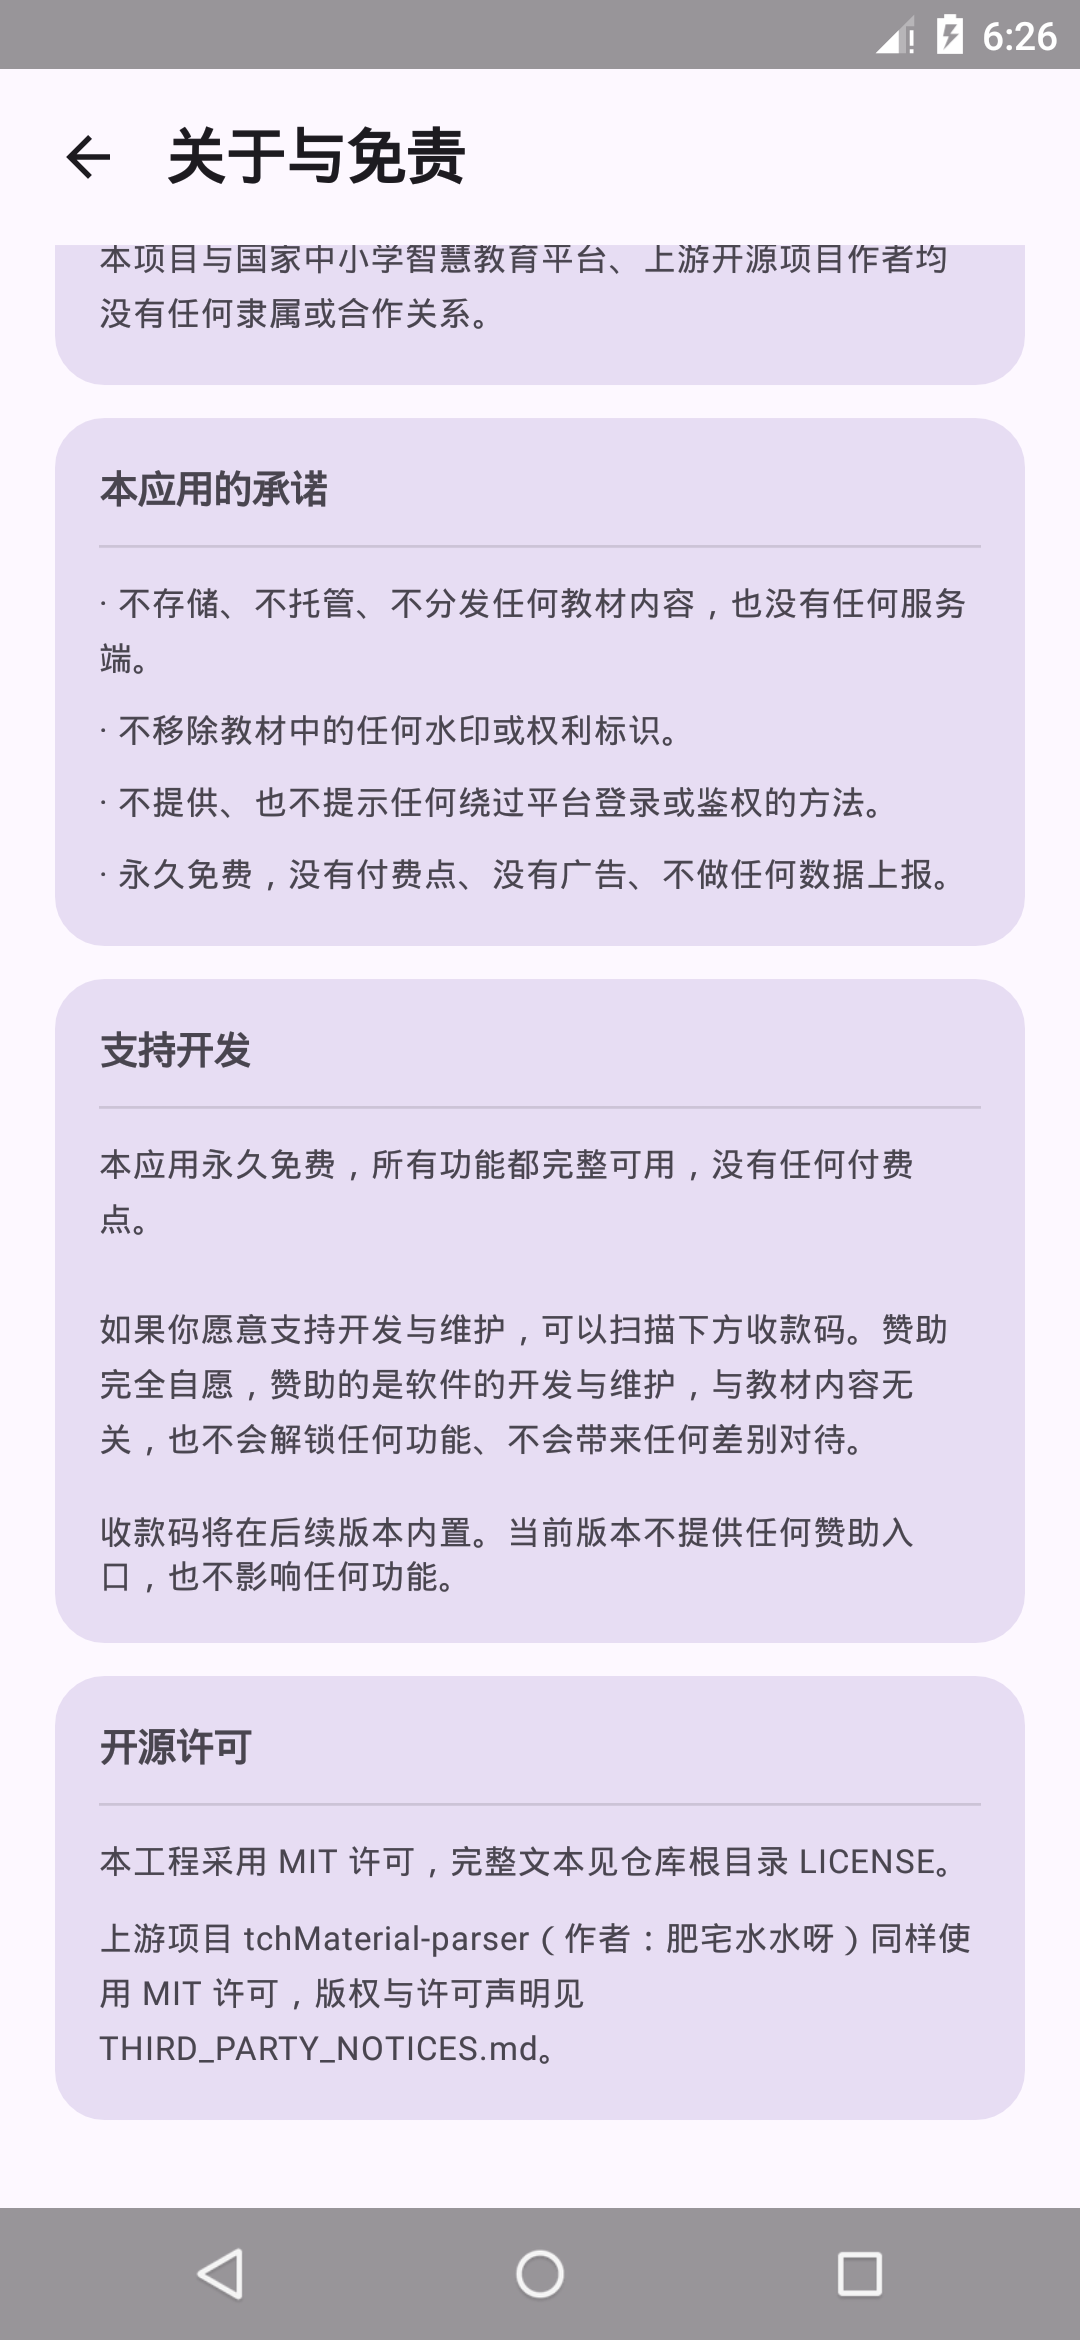
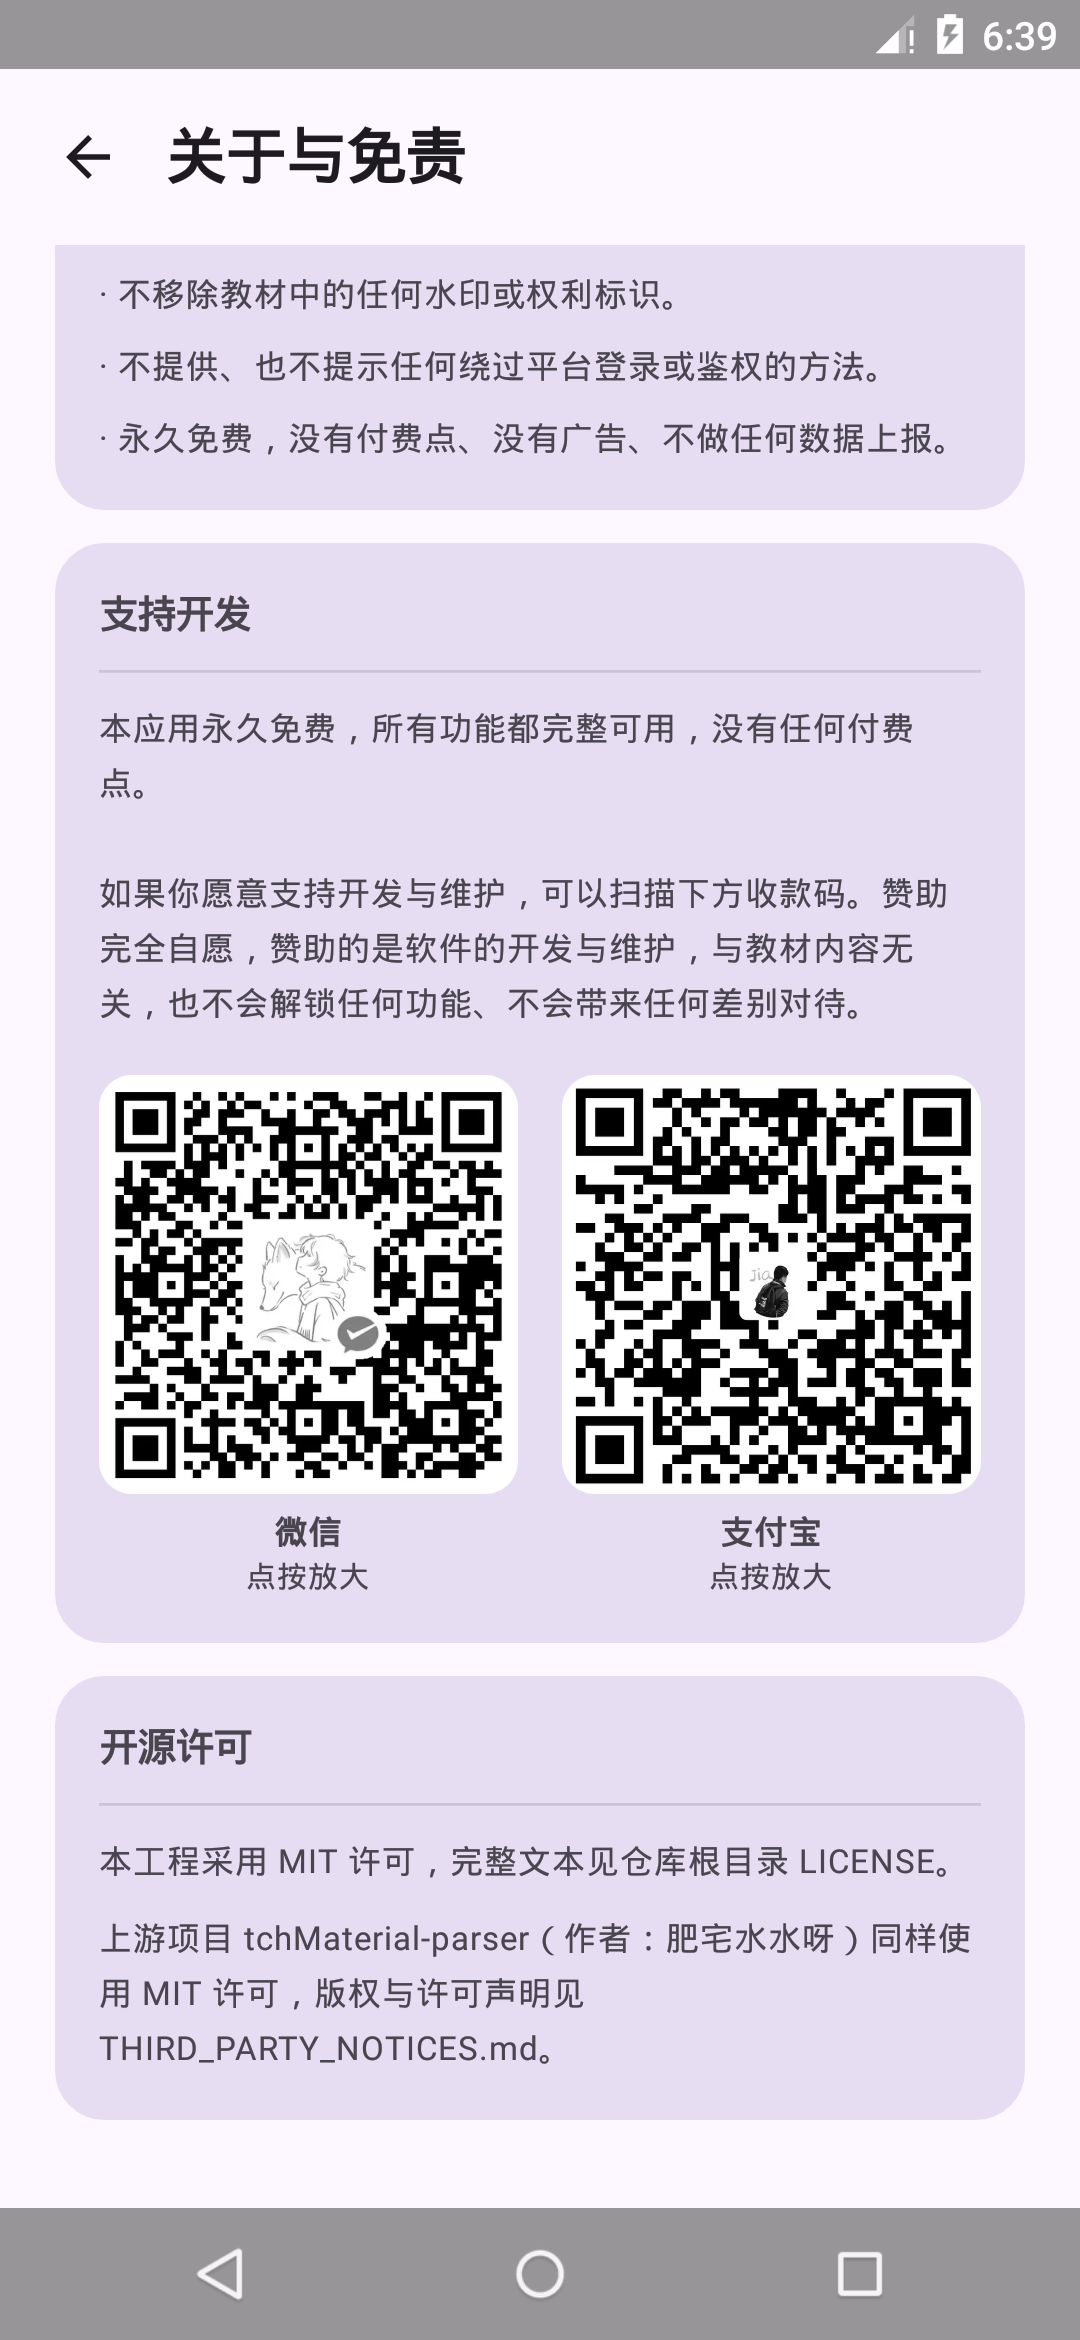
内置微信/支付宝收款码，并支持点按放大
- assets/sponsor/ 加入两张收款码（从海报里裁出二维码并补白色静区，800x800）
- 「关于」页收款码点按可放大到全屏宽度：并排显示时二维码偏小，可能扫不动
- 冒烟测试改为断言两张收款码存在、占位提示不再出现、点按后放大视图出现
- 收款码用 zxing-cpp 实测可解码，屏幕上的小尺寸版本也能识别

Changed region(s): [[0.0306, 0.0936, 0.9472, 0.6863], [0.9472, 0.0, 0.9778, 0.0312]]

diff --git a/app/src/main/java/com/jiaocai/download/ui/screens/AboutScreen.kt b/app/src/main/java/com/jiaocai/download/ui/screens/AboutScreen.kt
@@ -3,6 +3,7 @@ package com.jiaocai.download.ui.screens
 import android.content.Context
 import android.graphics.BitmapFactory
 import androidx.compose.foundation.Image
+import androidx.compose.foundation.clickable
 import androidx.compose.foundation.layout.Arrangement
 import androidx.compose.foundation.layout.Column
 import androidx.compose.foundation.layout.Row
@@ -25,12 +26,17 @@ import androidx.compose.material3.HorizontalDivider
 import androidx.compose.material3.Icon
 import androidx.compose.material3.IconButton
 import androidx.compose.material3.MaterialTheme
+import androidx.compose.material3.Surface
 import androidx.compose.material3.Text
 import androidx.compose.runtime.Composable
+import androidx.compose.runtime.getValue
+import androidx.compose.runtime.mutableStateOf
 import androidx.compose.runtime.remember
+import androidx.compose.runtime.setValue
 import androidx.compose.ui.Alignment
 import androidx.compose.ui.Modifier
 import androidx.compose.ui.draw.clip
+import androidx.compose.ui.graphics.Color
 import androidx.compose.ui.graphics.ImageBitmap
 import androidx.compose.ui.graphics.asImageBitmap
 import androidx.compose.ui.layout.ContentScale
@@ -38,6 +44,7 @@ import androidx.compose.ui.platform.LocalContext
 import androidx.compose.ui.text.font.FontWeight
 import androidx.compose.ui.unit.dp
 import androidx.compose.ui.unit.sp
+import androidx.compose.ui.window.Dialog
 import com.jiaocai.download.BuildConfig
 import com.jiaocai.download.ui.LegalText
 
@@ -182,14 +189,23 @@ private fun SectionCard(title: String, content: @Composable () -> Unit) {
     }
 }
 
+/**
+ * 一张收款码。并排显示时二维码偏小，可能扫不动，所以点按可以放大到全屏宽度。
+ * 放大只影响显示，不改变任何功能，也不做任何引导或催促。
+ */
 @Composable
 private fun SponsorCode(label: String, bitmap: ImageBitmap?, modifier: Modifier = Modifier) {
+    var enlarged by remember { mutableStateOf(false) }
+
     Column(modifier, horizontalAlignment = Alignment.CenterHorizontally) {
         if (bitmap != null) {
             Image(
                 bitmap = bitmap,
                 contentDescription = "$label 收款码",
-                modifier = Modifier.fillMaxWidth().clip(RoundedCornerShape(12.dp)),
+                modifier = Modifier
+                    .fillMaxWidth()
+                    .clip(RoundedCornerShape(12.dp))
+                    .clickable { enlarged = true },
                 contentScale = ContentScale.Fit,
             )
         } else {
@@ -197,6 +213,37 @@ private fun SponsorCode(label: String, bitmap: ImageBitmap?, modifier: Modifier 
         }
         Spacer(Modifier.height(6.dp))
         Text(label, style = MaterialTheme.typography.bodySmall, fontWeight = FontWeight.SemiBold)
+        if (bitmap != null) {
+            Text(
+                "点按放大",
+                style = MaterialTheme.typography.labelSmall,
+                color = MaterialTheme.colorScheme.onSurfaceVariant,
+            )
+        }
+    }
+
+    if (enlarged && bitmap != null) {
+        Dialog(onDismissRequest = { enlarged = false }) {
+            Surface(shape = RoundedCornerShape(20.dp), color = Color.White) {
+                Column(
+                    Modifier.padding(16.dp),
+                    horizontalAlignment = Alignment.CenterHorizontally,
+                ) {
+                    Image(
+                        bitmap = bitmap,
+                        contentDescription = "$label 收款码（放大）",
+                        modifier = Modifier.fillMaxWidth(),
+                        contentScale = ContentScale.Fit,
+                    )
+                    Spacer(Modifier.height(8.dp))
+                    Text(
+                        "$label · 点按空白处关闭",
+                        style = MaterialTheme.typography.bodySmall,
+                        color = Color(0xFF444444),
+                    )
+                }
+            }
+        }
     }
 }
 

diff --git a/app/src/test/java/com/jiaocai/download/ui/LegalScreensTest.kt b/app/src/test/java/com/jiaocai/download/ui/LegalScreensTest.kt
@@ -2,8 +2,10 @@ package com.jiaocai.download.ui
 
 import androidx.compose.ui.test.assertIsDisplayed
 import androidx.compose.ui.test.junit4.createComposeRule
+import androidx.compose.ui.test.onNodeWithContentDescription
 import androidx.compose.ui.test.onNodeWithText
 import androidx.compose.ui.test.performClick
+import androidx.compose.ui.test.performScrollTo
 import com.jiaocai.download.ui.screens.AboutScreen
 import com.jiaocai.download.ui.screens.UsageNoticeDialog
 import com.jiaocai.download.ui.theme.TextbookTheme
@@ -43,8 +45,14 @@ class LegalScreensTest {
 
         // 赞助文案必须明确「不解锁任何功能」，这是不能弱化的措辞
         compose.onNodeWithText(LegalText.SPONSOR_NOTICE).assertExists()
-        // 未内置收款码时应显示占位提示，而不是留空白
-        compose.onNodeWithText(LegalText.SPONSOR_PLACEHOLDER).assertExists()
+        // 收款码已内置：应显示两张码，而不是占位提示
+        compose.onNodeWithContentDescription("微信 收款码").assertExists()
+        compose.onNodeWithContentDescription("支付宝 收款码").assertExists()
+        compose.onNodeWithText(LegalText.SPONSOR_PLACEHOLDER).assertDoesNotExist()
+
+        // 并排时二维码偏小，点按必须能放大
+        compose.onNodeWithContentDescription("微信 收款码").performScrollTo().performClick()
+        compose.onNodeWithContentDescription("微信 收款码（放大）").assertExists()
 
         // 四段式免责声明每一段都要在界面上
         LegalText.DISCLAIMER_SECTIONS.forEach { (title, body) ->

diff --git a/README.md b/README.md
@@ -71,7 +71,8 @@ App 内会打开国家中小学智慧教育平台登录页。登录成功后，A
 - 构建：`assembleDebug` 通过；静态检查 `lintDebug` 0 error / 8 warning（均为「依赖有新版本」与第三方库误报）。
 - 单元测试：18 个用例全部通过（`testDebugUnitTest`），其中 2 个是「关于与免责」页与首次启动声明的 Compose 渲染冒烟测试。
 - Android 5.0.2 / API 21 模拟器：冷启动正常，教材目录与封面缩略图加载正常，勾选教材、进入登录页、展开手动凭据入口均正常，无崩溃。
-- 合规界面（API 21 模拟器实测）：首次启动弹出使用声明，按返回键无法跳过，点击「我已知悉」后才进入应用；同意后重启不再弹出；「关于与免责」页的免责声明四段、承诺条目、赞助说明与收款码占位提示均正常渲染（见 `screenshots/09`–`11`）。
+- 合规界面（API 21 模拟器实测）：首次启动弹出使用声明，按返回键无法跳过，点击「我已知悉」后才进入应用；同意后重启不再弹出；「关于与免责」页的免责声明四段、承诺条目、赞助说明与两张收款码均正常渲染，点按收款码可放大（见 `screenshots/09`–`12`）。
+- 收款码可用性：内置的微信 / 支付宝收款码用解码器（zxing-cpp）实测可正常识别，并排显示的小尺寸版本同样能解出内容（`wxp://…` 与 `https://qr.alipay.com/…`）。
 - 目录缓存：首次联网生成 `catalog_cache.jsonl`（约 1.2 MB），二次冷启动约 0.7 秒完成首屏。
 - 真机（小米 15S Pro / Android 16）：级联筛选、封面缩略图、登录与退出、批量下载、PDF 书签写入、教材库打开/分享/删除均正常；154 页课本实测写入 88 个多级书签。
 
@@ -85,9 +86,9 @@ App 内会打开国家中小学智慧教育平台登录页。登录成功后，A
 | --- | --- | --- | --- |
 | ![完成](screenshots/05_download_done_bookmarks.png) | ![教材库](screenshots/06_library.png) | ![删除](screenshots/07_delete_confirm.png) | ![登录](screenshots/08_login_manage.png) |
 
-| 首次启动使用声明 | 关于与免责 | 关于页·赞助说明 |
-| --- | --- | --- |
-| ![使用声明](screenshots/09_usage_notice.png) | ![关于与免责](screenshots/10_about_disclaimer.png) | ![赞助说明](screenshots/11_about_sponsor.png) |
+| 首次启动使用声明 | 关于与免责 | 关于页·赞助说明 | 收款码放大 |
+| --- | --- | --- | --- |
+| ![使用声明](screenshots/09_usage_notice.png) | ![关于与免责](screenshots/10_about_disclaimer.png) | ![赞助说明](screenshots/11_about_sponsor.png) | ![放大](screenshots/12_sponsor_zoom.png) |
 
 ## 本项目的红线
 
@@ -111,7 +112,7 @@ App 内会打开国家中小学智慧教育平台登录页。登录成功后，A
 
 本项目**永久免费，没有任何付费点**：所有功能都完整可用，没有功能锁、没有广告、不做任何数据上报。
 
-如果你愿意支持开发与维护，可以在应用的「关于与免责」页内扫描微信 / 支付宝收款码。赞助完全自愿：
+如果你愿意支持开发与维护，可以在应用的「关于与免责」页内扫描微信 / 支付宝收款码（点按可放大）。赞助完全自愿：
 
 - 赞助的是**软件的开发与维护**，与教材内容无关；
 - 赞助**不会解锁任何功能**，也不会带来任何差别对待；
